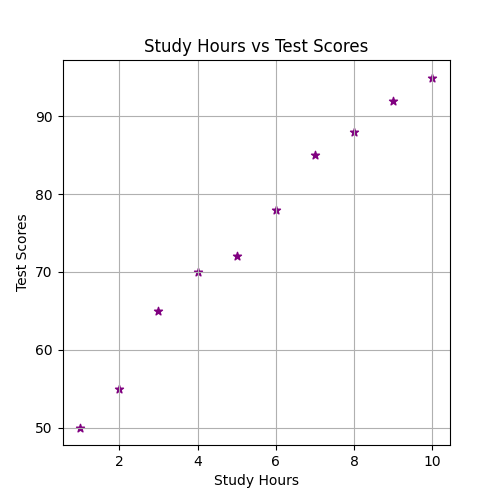
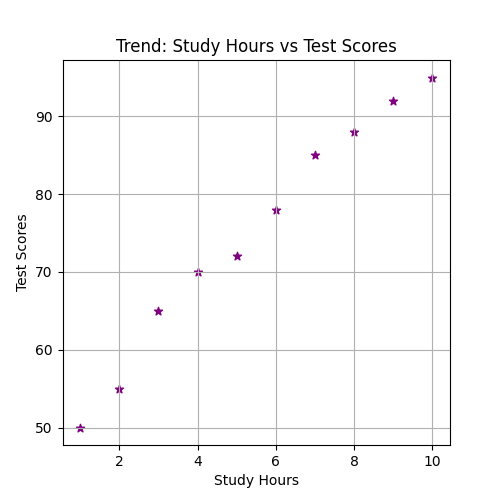
scatter plot
updated

Changed region(s): [[0.24, 0.06, 0.81, 0.12]]

diff --git a/week9/activity_scatter.py b/week9/activity_scatter.py
@@ -9,9 +9,12 @@ plt.figure(figsize=(5, 5))
 plt.scatter(study_hours, test_scores, color='purple', marker='*')
 plt.xlabel("Study Hours")
 plt.ylabel("Test Scores")
-plt.title("Study Hours vs Test Scores")
+plt.title("Trend: Study Hours vs Test Scores")
 plt.grid(True)
 
 # Save
 plt.savefig("week9/study_hours_vs_test_scores.png")
 plt.show()
+
+# Q: What trend do you observe?
+# A: According to the scatter plot trend, there is a favorable link between study hours and test scores.
